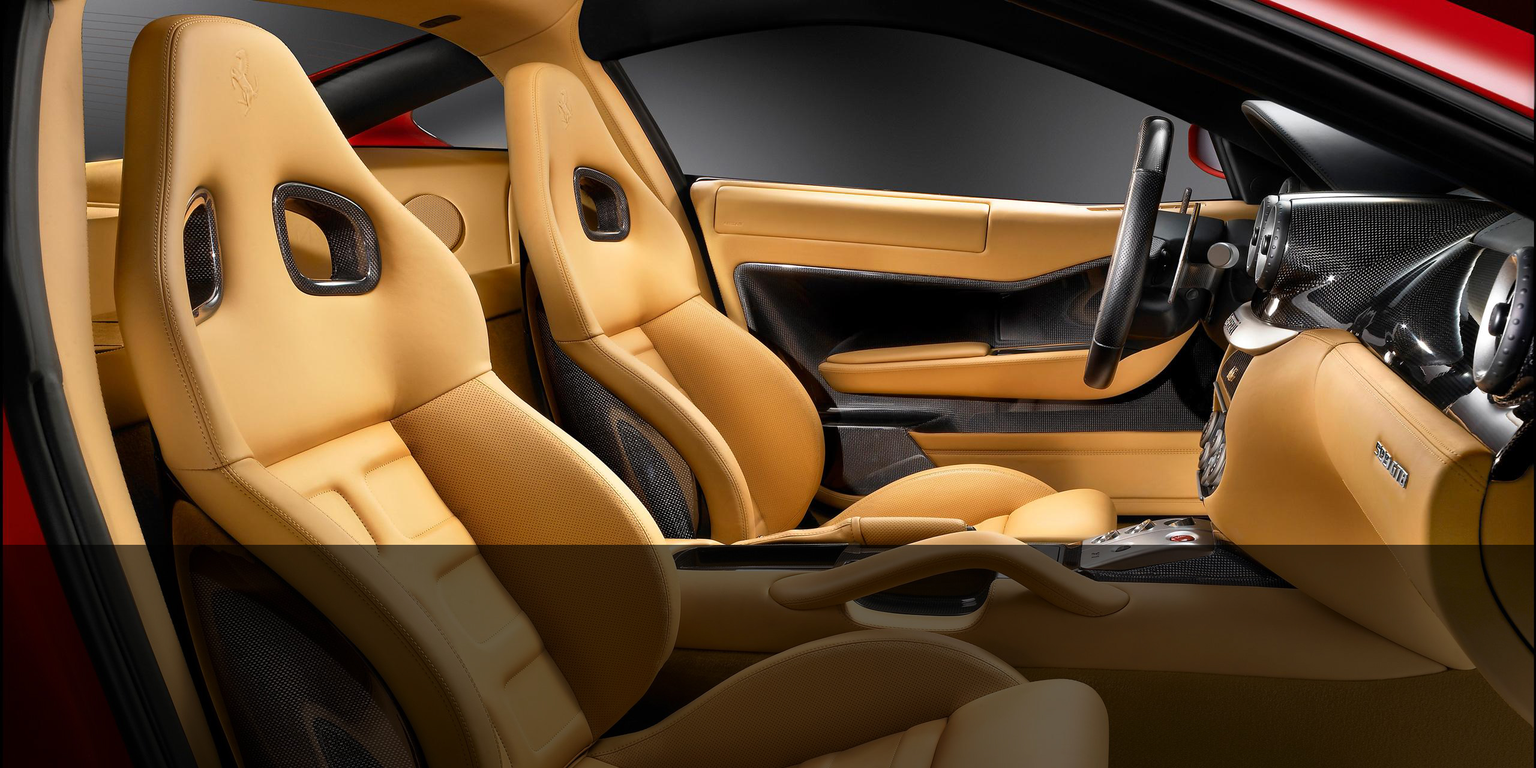
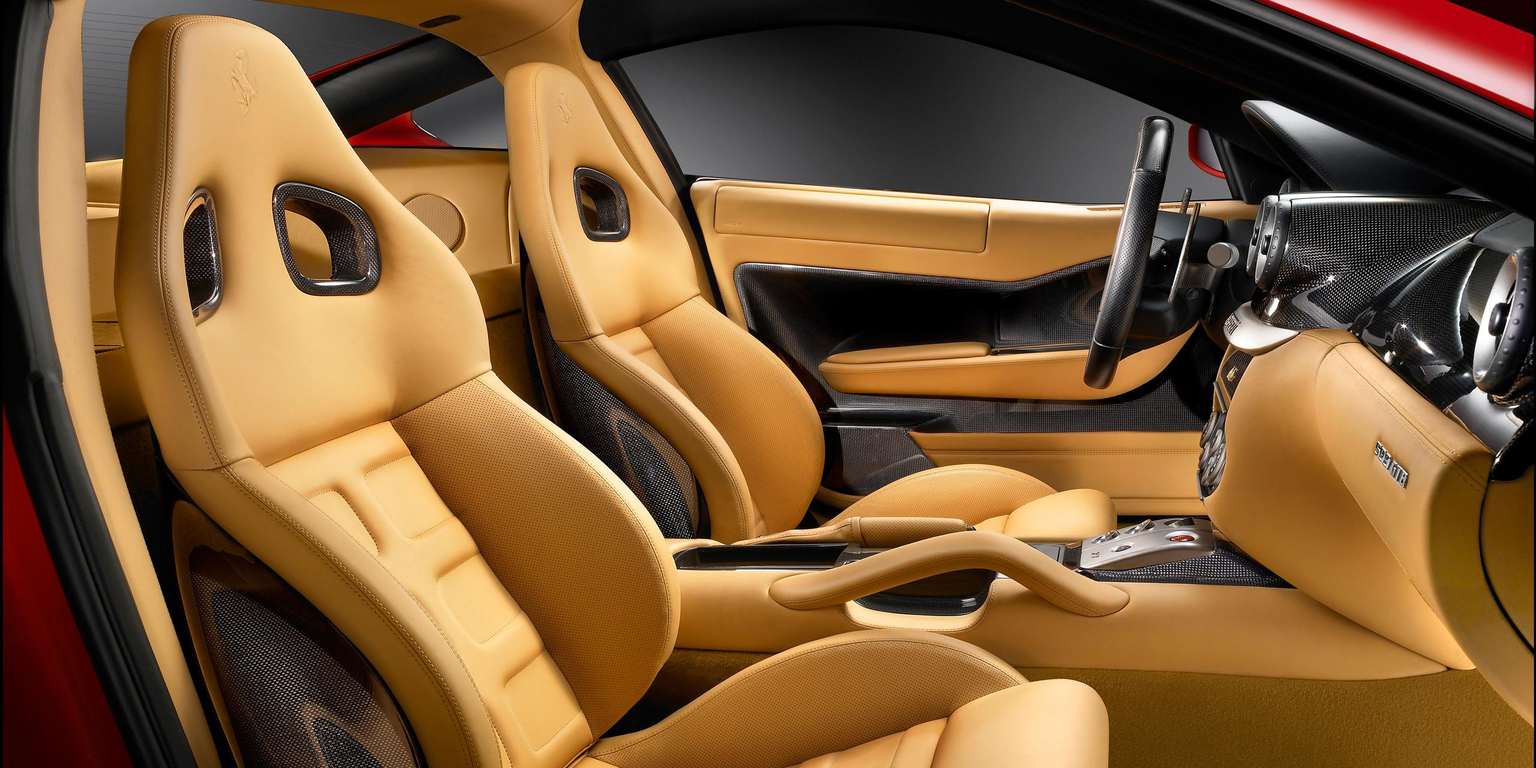
kancl 16.3.2016, 14:23

Changed region(s): [[0.0, 0.6875, 1.0, 1.0]]

diff --git a/web/css/site.css b/web/css/site.css
@@ -3,9 +3,25 @@ body {
     height: 100%;
 }
 
+a {
+    color: #4fb1e0;
+}
+
+a:hover {
+    color: #a3c400;
+}
+
 .navbar-default {
     background-color: white;
     border: none;
+}
+
+.navbar-default .navbar-nav > li > a {
+    color: #4fb1e0;
+}
+
+.navbar-default .navbar-nav > li > a:hover {
+    color: #a3c400;
 }
 
 .wrap {
@@ -19,13 +35,28 @@ body {
     padding: 50px 15px 0;
 }
 
+.carousel-caption {
+    background-color: rgba(0,0,0,0.6);
+    bottom: 0;
+    left: 0;
+    width: 100%;
+}
+
+.carousel-caption h3 {
+    margin-top: 0;
+}
+
 .carousel-caption h3 a {
-    color: darkgray;
+    color: #4fb1e0;
 }
 
 .carousel-caption h3 a:hover {
     color: white;
     text-decoration: none;
+}
+
+.carousel-indicators {
+    bottom: 0;
 }
 
 .footer {
@@ -102,4 +133,8 @@ a.desc:after {
     border-left: 3px solid #eed3d7;
     padding: 10px 20px;
     margin: 0 0 15px 0;
+}
+
+.footer {
+    font-size: 90%;
 }

diff --git a/private/views/layouts/main.php b/private/views/layouts/main.php
@@ -50,8 +50,8 @@ AppAsset::register($this);
 <footer class="footer">
     <div class="container">
         <p class="pull-left">&copy; DENNY+ Milan Králík <?= date('Y') ?></p>
-
-        <p class="pull-right"><?= Yii::powered() ?></p>
+        <p class="pull-right">Webdesign by <?= Html::a('C@mus', 'http://www.camus.cz') ?></p>
+        <p class="text-center"><?= Yii::powered() ?></p>
     </div>
 </footer>
 
